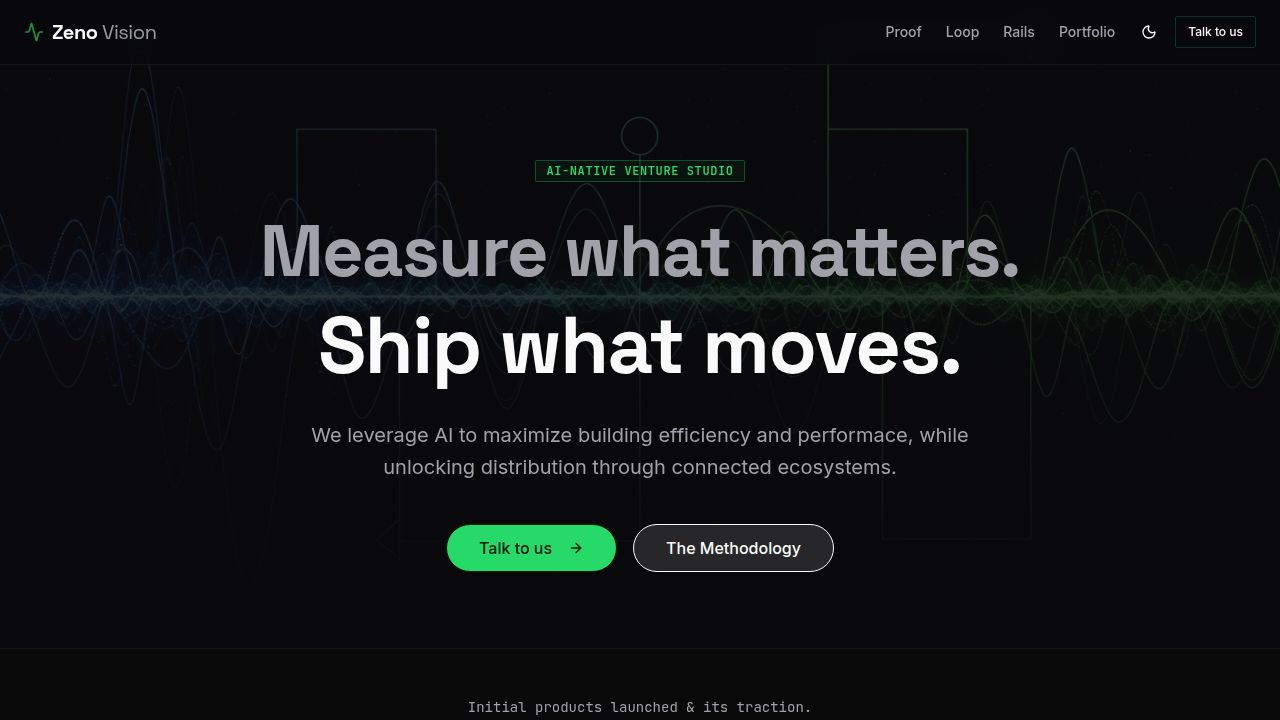
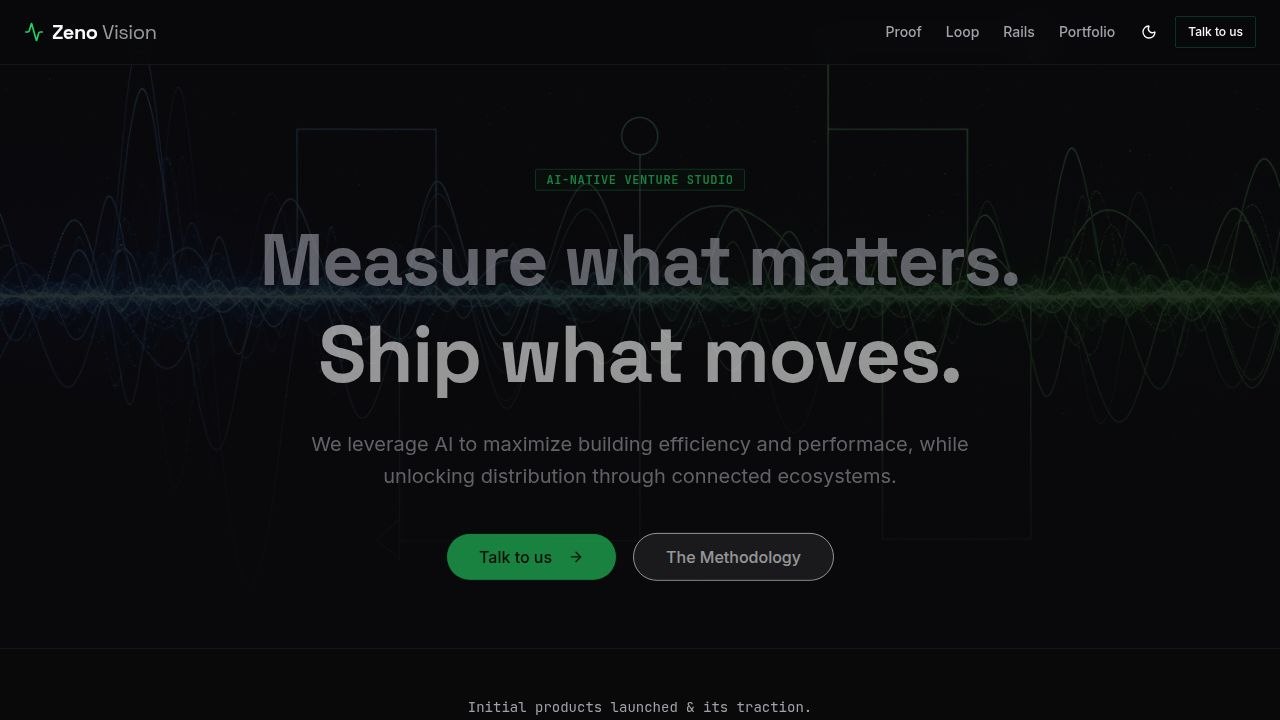
Update portfolio metrics and related text in the hero section
Updates the user count and timeframe for MiniPlay.studio in the ProofStrip component.

Replit-Commit-Author: Agent
Replit-Commit-Session-Id: 262afabe-b372-450c-9c74-cf88ad5452be
Replit-Commit-Checkpoint-Type: full_checkpoint
Replit-Commit-Event-Id: 54d32623-453f-4b22-a927-4fa51a0ccb89
Replit-Commit-Screenshot-Url: https://storage.googleapis.com/screenshot-production-us-central1/4f4f9012-dcda-40b1-bf47-ed13ac9763ff/262afabe-b372-450c-9c74-cf88ad5452be/8hv12nV
Replit-Helium-Checkpoint-Created: true

diff --git a/client/src/pages/home.tsx b/client/src/pages/home.tsx
@@ -131,7 +131,7 @@ const Hero = () => {
 
 const ProofStrip = () => {
   const metrics = [
-    { label: "MiniPlay.studio", value: "81K+ users", sub: "in its 1st week", icon: Users, url: "https://miniplay.studio" },
+    { label: "MiniPlay.studio", value: "95K+ users", sub: "> Dec 18, each week", icon: Users, url: "https://miniplay.studio" },
     { label: "nanoPay.live", value: "~10K txs", sub: "onchain, after 2 weeks", icon: Activity, url: "https://nanopay.live" },
     { label: "MaxFlow.one", value: "3,500+", sub: "signals computed", icon: Terminal, url: "https://maxflow.one" },
   ];
